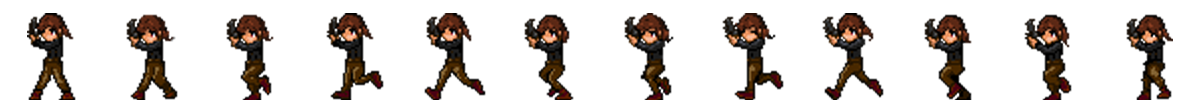
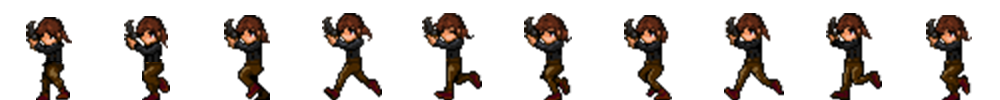
Correção PlayerRun + Spritesheet Inimigo

diff --git a/inGame.py b/inGame.py
@@ -9,14 +9,13 @@ def inGame(janela, teclado, mouse, modulo, nivelDificuldade):
      chao.y = cenario.height
      player = Animation("player_idle.png", 4, True)
      player.set_sequence_time(0, 3, 240)
-     zumbi = Sprite("zumbis.png", 1)
+     zumbi = Sprite("testezumbi.png", 1)
      chao.y = cenario.height
      player.x = 100
      player.y = chao.y - player.height
      playerx = 0
      playery = 0
      ativo = 0
-     olhando = 1
      apertou = False
      tempo = 0
      velPlayer = 200
@@ -65,13 +64,13 @@ def inGame(janela, teclado, mouse, modulo, nivelDificuldade):
                if ativo != 2:
                     playerx = player.x
                     playery = player.y
-                    player = Animation("player_run2.png", 12, True)
+                    player = Animation("player_run2.png", 10, True)
                     player.set_sequence_time(0, 9, 90)
                     player.x = playerx
                     player.y = playery
                     ativo = 2
 
-          if (teclado.key_pressed("SPACE")) and (jump == False):
+          if (teclado.key_pressed("UP")) and (jump == False):
                apertou = True
                jump = True
                changeDJump = False
